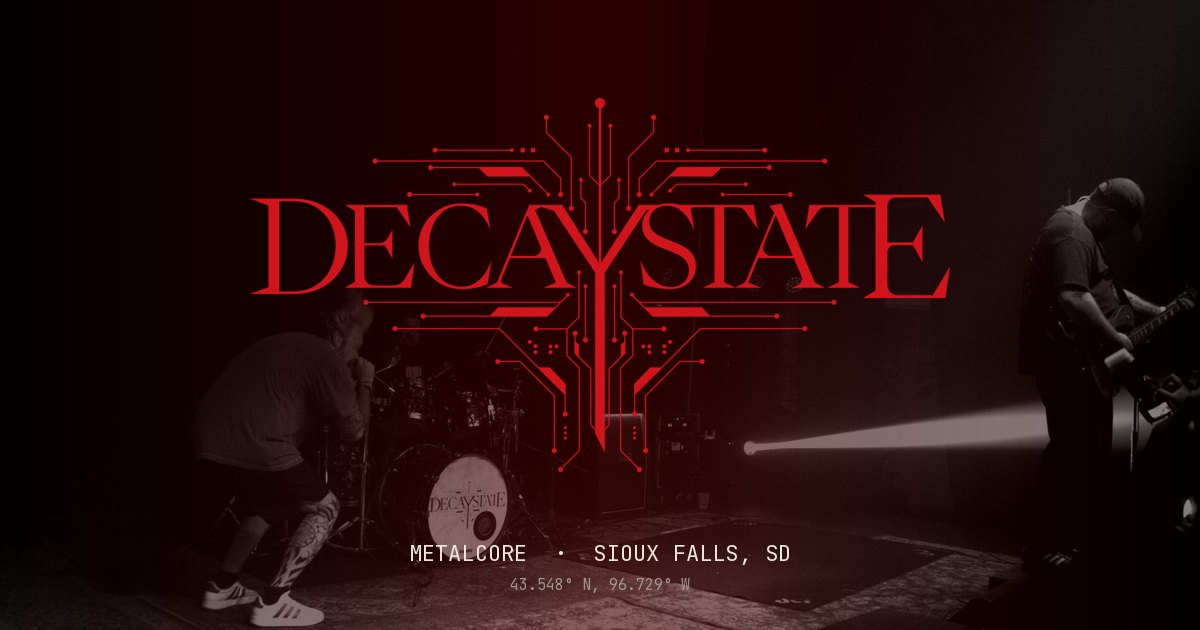
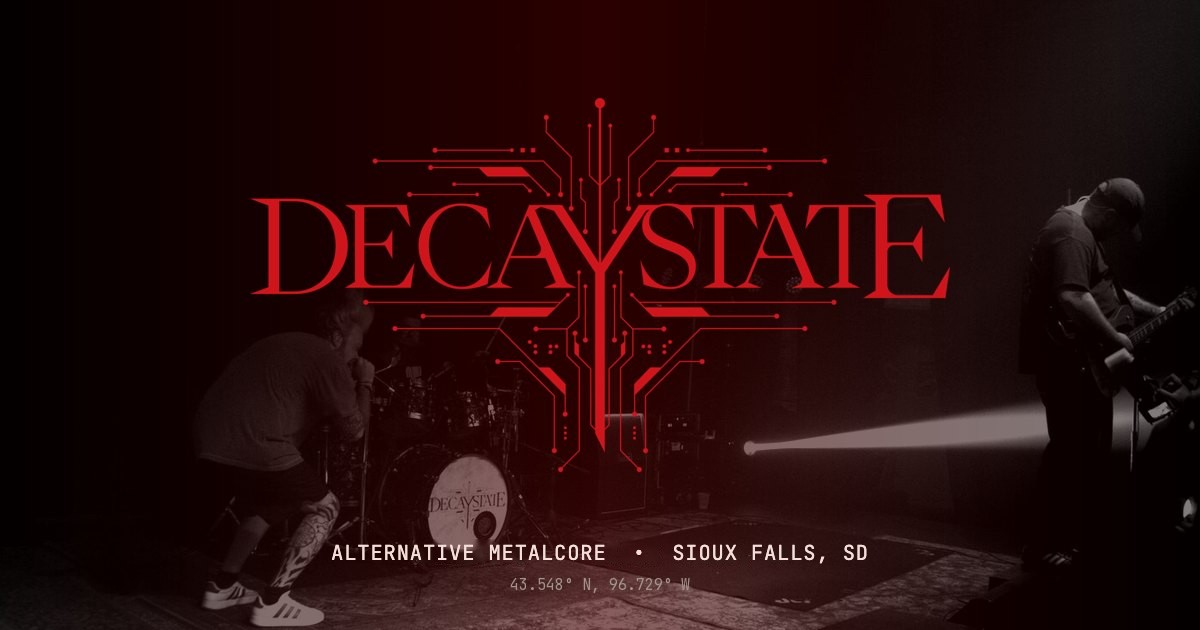
Alternative metalcore: page titles, descriptions, band data, bios and share image
Claude-Session: https://claude.ai/code/session_015tMFrT6qunQ84BetpaQqsM

Changed region(s): [[0.2775, 0.8444, 0.6783, 0.9048], [0.7092, 0.8746, 0.74, 0.9048]]

diff --git a/index.html b/index.html
@@ -3,16 +3,16 @@
 <head>
 <meta charset="utf-8">
 <meta name="viewport" content="width=device-width, initial-scale=1, viewport-fit=cover">
-<title>DECAYSTATE | Metalcore from Sioux Falls, SD</title>
+<title>DECAYSTATE | Alternative Metalcore from Sioux Falls, SD</title>
 <meta name="claude:viewport-fit-sides" content="cover">
-<meta name="description" content="DECAYSTATE is a metalcore band from Sioux Falls, SD. New single “Unethical” (Faouzia cover) out now. Music, shows, merch and booking.">
+<meta name="description" content="DECAYSTATE is an alternative metalcore band from Sioux Falls, SD. New single “Unethical” (Faouzia cover) out now. Music, shows, merch and booking.">
 <meta property="og:type" content="website">
 <meta property="og:site_name" content="DECAYSTATE">
-<meta property="og:title" content="DECAYSTATE | Metalcore from Sioux Falls, SD">
+<meta property="og:title" content="DECAYSTATE | Alternative Metalcore from Sioux Falls, SD">
 <meta property="og:description" content="New single “Unethical” out now. Shows, merch and booking.">
 <link rel="canonical" href="https://decaystateband.com/">
 <meta property="og:url" content="https://decaystateband.com/">
-<meta property="og:image" content="https://decaystateband.com/assets/img/share.jpg">
+<meta property="og:image" content="https://decaystateband.com/assets/img/share.jpg?v=20261102">
 <meta property="og:image:width" content="1200">
 <meta property="og:image:height" content="630">
 <meta name="twitter:card" content="summary_large_image">
@@ -29,12 +29,13 @@
  "@id": "https://decaystateband.com/#band",
  "name": "DECAYSTATE",
  "url": "https://decaystateband.com/",
- "description": "Metalcore band from Sioux Falls, South Dakota.",
+ "description": "Alternative metalcore band from Sioux Falls, South Dakota.",
  "genre": [
+  "Alternative metalcore",
   "Metalcore",
   "Alternative metal"
  ],
- "image": "https://decaystateband.com/assets/img/share.jpg",
+ "image": "https://decaystateband.com/assets/img/share.jpg?v=20261102",
  "logo": "https://decaystateband.com/assets/img/logo-full-bright.png",
  "foundingDate": "2026",
  "foundingLocation": {
@@ -193,7 +194,7 @@
   <section class="follow" id="follow" aria-labelledby="followH">
     <div class="wrap follow__in">
       <h2 id="followH">Follow DECAYSTATE</h2>
-      <p class="follow__bio">Heavy, deliberate metalcore out of Sioux Falls, South Dakota: corroded low end and sharp, mechanical breakdowns, with hooks that stick.</p>
+      <p class="follow__bio">Heavy, deliberate alternative metalcore out of Sioux Falls, South Dakota: corroded low end and sharp, mechanical breakdowns, with hooks that stick.</p>
       <p class="follow__line" id="followLine"></p>
       <div class="follow__links" id="followLinks"></div>
       <details class="follow__more">
@@ -254,7 +255,7 @@
 
 <div class="toast" id="toast" role="status" aria-live="polite"></div>
 
-<script src="assets/js/config.js?v=20261102a"></script>
+<script src="assets/js/config.js?v=20261102b"></script>
 <script src="assets/js/main.js?v=20261102d"></script>
 </body>
 </html>

diff --git a/epk.html b/epk.html
@@ -5,14 +5,14 @@
 <meta name="viewport" content="width=device-width, initial-scale=1, viewport-fit=cover">
 <title>DECAYSTATE EPK</title>
 <meta name="claude:viewport-fit-sides" content="cover">
-<meta name="description" content="DECAYSTATE press kit: metalcore from Sioux Falls, SD.">
+<meta name="description" content="DECAYSTATE press kit: alternative metalcore from Sioux Falls, SD.">
 <meta name="robots" content="noindex">
 <link rel="canonical" href="https://decaystateband.com/epk.html">
 <meta property="og:type" content="website">
 <meta property="og:title" content="DECAYSTATE Press Kit">
-<meta property="og:description" content="Metalcore from Sioux Falls, SD. Music, live photos and booking contact.">
+<meta property="og:description" content="Alternative metalcore from Sioux Falls, SD. Music, live photos and booking contact.">
 <meta property="og:url" content="https://decaystateband.com/epk.html">
-<meta property="og:image" content="https://decaystateband.com/assets/img/share.jpg">
+<meta property="og:image" content="https://decaystateband.com/assets/img/share.jpg?v=20261102">
 <meta name="twitter:card" content="summary_large_image">
 <link rel="icon" href="favicon.png">
 <link rel="preconnect" href="https://fonts.googleapis.com">
@@ -134,8 +134,8 @@ body::before { content: ""; position: fixed; inset: 0 0 auto; height: env(safe-a
     <p class="cap">Live at Icon · Photo: Corey Gross</p>
   </div>
 
-  <p class="mono tag pad">Metalcore · Sioux Falls, SD · 43.548° N, 96.729° W</p>
-  <p class="bio pad">Heavy, deliberate metalcore from South Dakota: corroded low end, mechanical breakdowns and hooks that stick. The three-piece debuted in September 2026 with a headline show at Icon and have since shared stages with Opal in Sky and Mirrorcell. For fans of Northlane, Bad Omens and Architects.</p>
+  <p class="mono tag pad">Alternative Metalcore · Sioux Falls, SD · 43.548° N, 96.729° W</p>
+  <p class="bio pad">Heavy, deliberate alternative metalcore from South Dakota: corroded low end, mechanical breakdowns and hooks that stick. The three-piece debuted in September 2026 with a headline show at Icon and have since shared stages with Opal in Sky and Mirrorcell. For fans of Northlane, Bad Omens and Architects.</p>
 
   <div class="members pad">
     <figure><img src="assets/img/epk-gtr.jpg" alt="Paul on guitar"><figcaption><b>Paul</b><span>Guitar</span></figcaption></figure>

diff --git a/assets/js/config.js b/assets/js/config.js
@@ -9,7 +9,7 @@ window.SITE = {
   email: "decaystateband@gmail.com",
   hometown: "Sioux Falls, SD",
   coords: "43.548° N, 96.729° W",
-  genre: "Metalcore",
+  genre: "Alternative metalcore",
   ffo: ["Northlane", "Bad Omens", "Architects"],
 
   links: {
